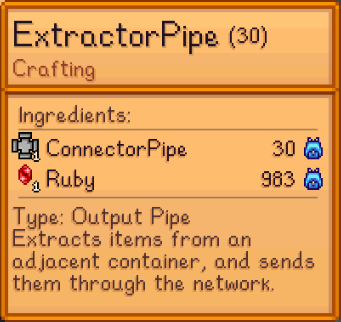
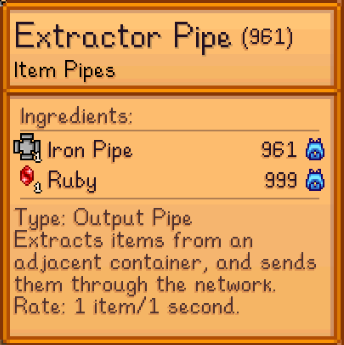
[IP] beta: - Modified pipe rates wording - Added updated media for wikie

diff --git a/ItemPipes/ModEntry.cs b/ItemPipes/ModEntry.cs
@@ -356,6 +356,7 @@ namespace ItemPipes.Framework
 
         private void OnButtonPressed(object sender, ButtonPressedEventArgs e)
         {
+            /*
             SButton graphKey = SButton.L;
             if (e.Button == graphKey)
             {
@@ -366,6 +367,7 @@ namespace ItemPipes.Framework
                 }
                 Printer.Info(Utilities.GetNetworkLegend());
             }
+            */
         }
 
         private void ConvertToVanillaMap()

diff --git a/ItemPipes/Framework/Network.cs b/ItemPipes/Framework/Network.cs
@@ -321,6 +321,7 @@ namespace ItemPipes.Framework
 
         public string PrintGraph()
         {
+            //NEED TESTING
             int minWidth = (int)Math.Round(Nodes.Min(n => n.Position.X))-1;
             int minHeight = (int)Math.Round(Nodes.Min(n => n.Position.Y))-1;
             int maxWidth = (int)Math.Round(Nodes.Max(n => n.Position.X))+2;
